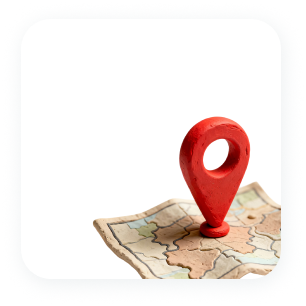
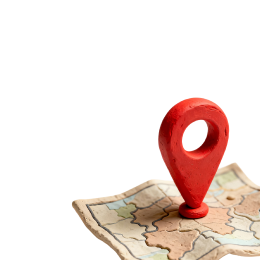
chore: 사진 변경 및 theme에서 값 뽑아쓰기

Changed region(s): [[0.2769, 0.3692, 1.0, 1.0]]

diff --git a/frontend/src/domains/wishlist/components/Card.tsx b/frontend/src/domains/wishlist/components/Card.tsx
@@ -39,11 +39,10 @@ const S = {
     overflow: hidden;
     position: relative;
 
-    padding: 37px 26px;
+    padding: ${({ theme }) => theme.PADDING.p8}
+      ${({ theme }) => theme.PADDING.p4} 0 ${({ theme }) => theme.PADDING.p7};
 
-    /* TODO: 사진 사이즈 맞추면 삭제될 예정 */
-    border: 1px solid red;
-    border-radius: 30px;
+    border-radius: ${({ theme }) => theme.RADIUS.xlarge};
     box-shadow: ${({ theme }) => theme.BOX_SHADOW.level1};
     cursor: pointer;
   `,

diff --git a/frontend/src/pages/Main.tsx b/frontend/src/pages/Main.tsx
@@ -1,7 +1,8 @@
 import Card from '@domains/wishlist/components/Card';
 
+import { HEADER_HEIGHT } from '@widgets/Header';
+
 import Carousel from '@components/Carousel';
-import { HEADER_HEIGHT } from '@components/layouts/Header';
 
 import { makePickeatName } from '@domains/pickeat/utils/makePickeatName';
 
